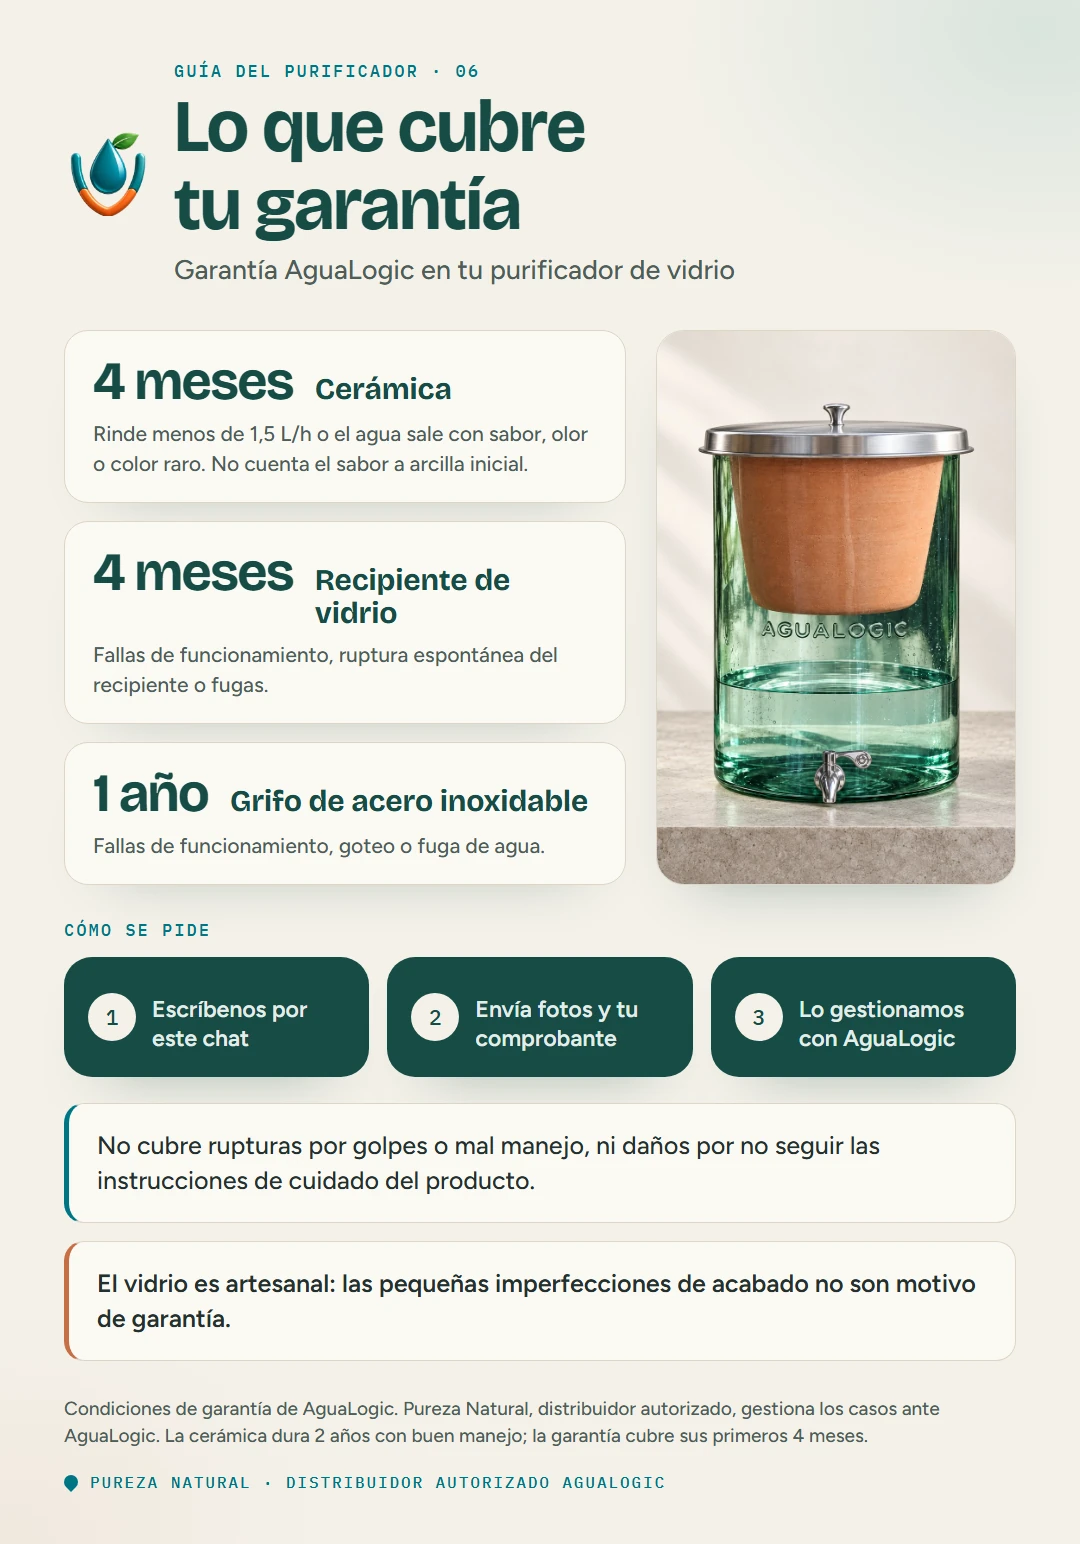
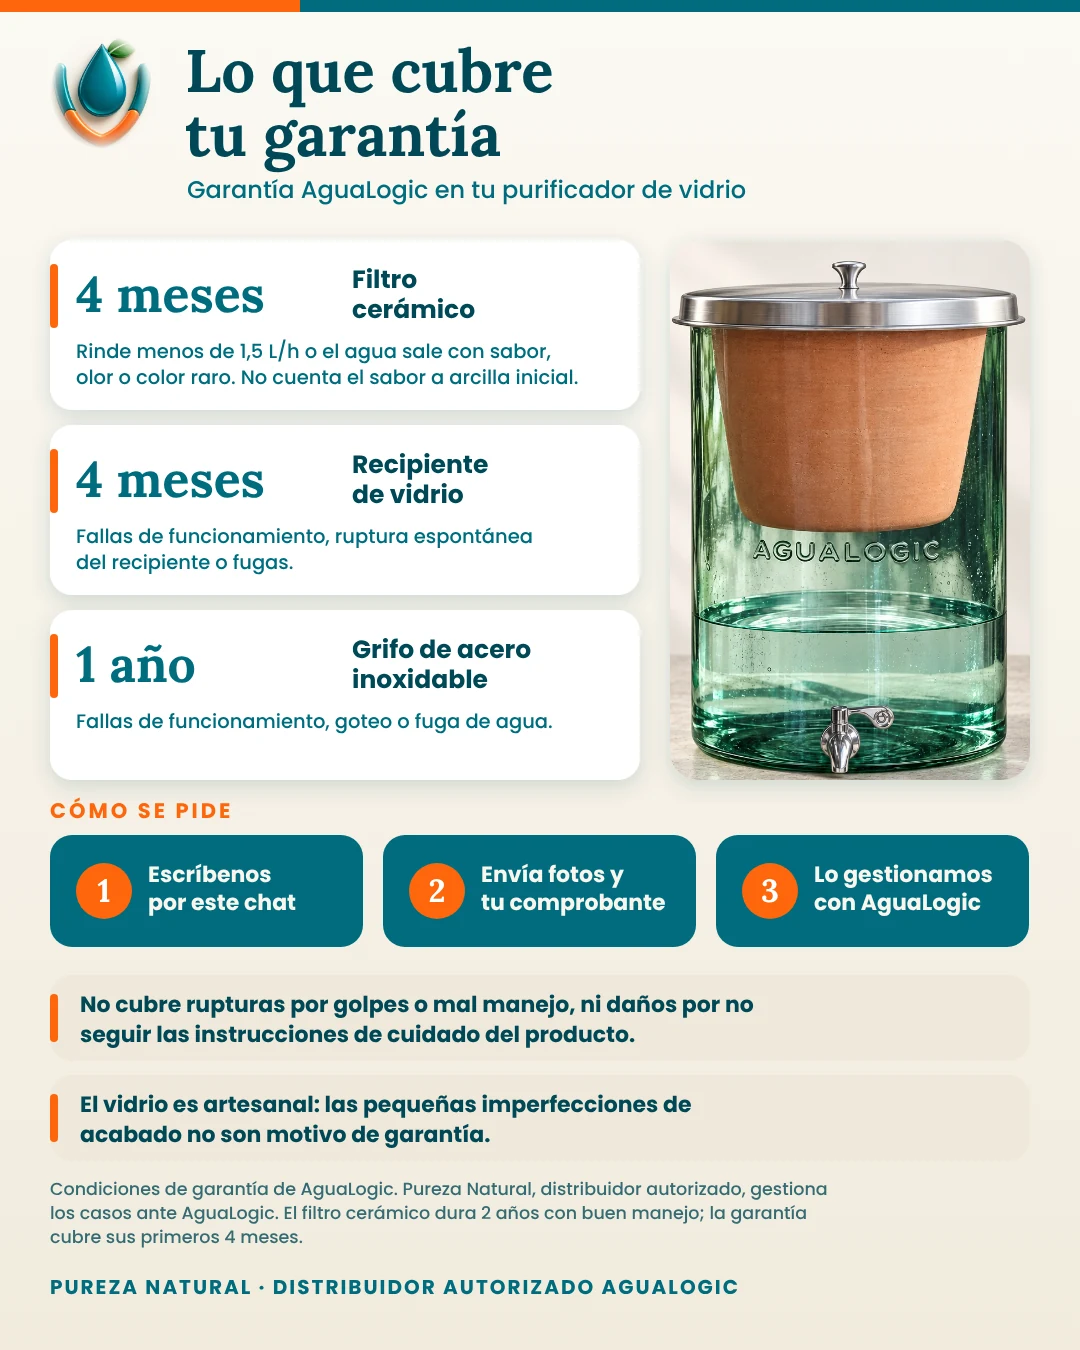
Guía: vuelve a las tarjetas anteriores
Revierte 781301d. Las tarjetas nuevas quedan solo en local.

diff --git a/pureza-natural/guia/index.html b/pureza-natural/guia/index.html
@@ -9,31 +9,30 @@
 <link rel="icon" href="img/logo.webp">
 <link rel="preconnect" href="https://fonts.googleapis.com">
 <link rel="preconnect" href="https://fonts.gstatic.com" crossorigin>
-<link href="https://fonts.googleapis.com/css2?family=Bricolage+Grotesque:opsz,wght@12..96,700&family=Figtree:wght@500;600&family=IBM+Plex+Mono:wght@500&display=swap" rel="stylesheet">
+<link href="https://fonts.googleapis.com/css2?family=Lora:wght@700&family=Poppins:wght@500;700&display=swap" rel="stylesheet">
 <style>
-:root{--canvas:#F4F1E9;--panel:#FBF9F4;--deep:#174C46;--accent:#C66F45;--water:#007585;--text:#24302E;--line:#DDD6C6;--on-deep:#E3EEEA;--display:'Bricolage Grotesque',system-ui,sans-serif;--body:'Figtree',system-ui,sans-serif;--mono:'IBM Plex Mono',ui-monospace,monospace}
+:root{--teal:#016C7E;--dark:#014856;--orange:#FD660D;--cream:#F8F5ED;--sand:#EFE8DA}
 *{box-sizing:border-box;margin:0;padding:0}
 html{scroll-behavior:smooth;scroll-padding-top:76px}
-body{background:radial-gradient(520px 380px at 96% 0,rgba(120,185,178,.22),transparent 70%),var(--canvas);background-attachment:fixed;color:var(--text);font-family:var(--body);font-weight:500;line-height:1.6;min-height:100vh;-webkit-font-smoothing:antialiased}
-.top{height:6px;background:linear-gradient(90deg,var(--accent) 0 18%,var(--deep) 18% 100%)}
-header{max-width:760px;margin:0 auto;padding:22px 16px 10px;display:flex;align-items:center;gap:16px}
-header img{width:64px;height:auto}
-h1{font-family:var(--display);font-weight:700;font-size:clamp(28px,6.4vw,40px);line-height:1.05;letter-spacing:-.02em;color:var(--deep)}
-header p{font-family:var(--mono);font-size:12px;letter-spacing:.1em;text-transform:uppercase;color:var(--water);margin-top:6px}
-nav{position:sticky;top:0;z-index:5;background:rgba(244,241,233,.9);backdrop-filter:blur(12px);-webkit-backdrop-filter:blur(12px);border-bottom:1px solid var(--line)}
+body{background:linear-gradient(180deg,#FBF9F3,#F1EBDD);color:var(--dark);font-family:'Poppins',system-ui,sans-serif;font-weight:500;line-height:1.5;min-height:100vh}
+.top{height:8px;background:linear-gradient(90deg,var(--orange) 0 28%,var(--teal) 28% 100%)}
+header{max-width:760px;margin:0 auto;padding:22px 16px 10px;display:flex;align-items:center;gap:14px}
+header img{width:64px;height:auto;-webkit-mask-image:radial-gradient(closest-side,#000 72%,transparent 100%);mask-image:radial-gradient(closest-side,#000 72%,transparent 100%)}
+h1{font-family:'Lora',Georgia,serif;font-weight:700;font-size:clamp(24px,6vw,34px);line-height:1.15;color:var(--dark)}
+header p{font-size:14px;color:var(--teal)}
+nav{position:sticky;top:0;z-index:5;background:rgba(251,249,243,.95);backdrop-filter:blur(6px);border-bottom:1px solid rgba(1,72,86,.1)}
 nav ul{max-width:760px;margin:0 auto;padding:10px 16px;display:flex;gap:8px;overflow-x:auto;list-style:none;scrollbar-width:none}
 nav ul::-webkit-scrollbar{display:none}
-nav a{white-space:nowrap;text-decoration:none;font-size:14px;font-weight:600;color:var(--deep);border:1.5px solid var(--deep);border-radius:999px;padding:7px 16px;min-height:36px;display:inline-flex;align-items:center;transition:background .3s,color .3s}
-nav a:hover,nav a:focus-visible{background:var(--deep);color:var(--canvas);outline:none}
-nav a:focus-visible{outline:3px solid var(--accent);outline-offset:3px}
+nav a{white-space:nowrap;text-decoration:none;font-size:14px;font-weight:700;color:var(--teal);border:1.5px solid var(--teal);border-radius:999px;padding:6px 14px}
+nav a:hover,nav a:focus-visible{background:var(--teal);color:var(--cream);outline:none}
 main{max-width:760px;margin:0 auto;padding:18px 16px 40px}
-figure{margin:0 0 32px;scroll-margin-top:76px}
-figure img{display:block;width:100%;height:auto;border-radius:24px;box-shadow:0 30px 60px -40px rgba(23,76,70,.35);background:var(--panel);border:1px solid var(--line)}
-.dl{display:inline-block;margin-top:12px;font-size:14px;font-weight:600;color:var(--water);text-decoration:underline;text-underline-offset:3px}
-.dl:focus-visible{outline:3px solid var(--accent);outline-offset:3px;border-radius:4px}
+figure{margin:0 0 28px;scroll-margin-top:76px}
+figure img{display:block;width:100%;height:auto;border-radius:18px;box-shadow:0 6px 22px rgba(1,72,86,.16);background:var(--sand)}
+.dl{display:inline-block;margin-top:10px;font-size:13px;font-weight:700;color:var(--teal);text-decoration:underline;text-underline-offset:3px}
 footer{max-width:760px;margin:0 auto;padding:0 16px 44px;text-align:center}
-footer small{display:block;font-family:var(--mono);font-size:12px;letter-spacing:.12em;color:var(--water);font-weight:500}
-@media (prefers-reduced-motion:reduce){html{scroll-behavior:auto}nav a{transition:none}}
+.wa{display:inline-block;background:var(--teal);color:var(--cream);text-decoration:none;font-weight:700;border-radius:14px;padding:14px 24px;font-size:16px}
+.wa:hover{background:var(--dark)}
+footer small{display:block;font-size:12px;letter-spacing:.12em;color:var(--teal);font-weight:700}
 </style>
 </head>
 <body>
@@ -58,31 +57,31 @@ footer small{display:block;font-family:var(--mono);font-size:12px;letter-spacing
 </nav>
 <main>
   <figure id="funcionamiento">
-    <img src="img/funcionamiento.webp" width="1080" height="1473" alt="Así funciona por gravedad: echas el agua arriba, la gravedad la pasa por la cerámica y sale por la llave. 8 litros, 1,7 L/h en promedio, sin electricidad.">
+    <img src="img/funcionamiento.webp" width="1080" height="1340" alt="Así funciona por gravedad: echas el agua arriba, la gravedad la pasa por la cerámica y sale por la llave. 8 litros, 1,7 L/h en promedio, sin electricidad.">
     <a class="dl" href="img/funcionamiento.webp" download>Descargar imagen</a>
   </figure>
   <figure id="curacion">
-    <img src="img/curacion.webp" width="1080" height="1805" alt="Cómo se cura tu purificador nuevo: llénalo hasta el tope, repite 4 veces, usa esa agua para regar tus matas y desde la 5.ª carga ya se toma." loading="lazy">
+    <img src="img/curacion.webp" width="1080" height="1430" alt="Cómo se cura tu purificador nuevo: llénalo hasta el tope, repite 4 veces y desde la 5.ª carga ya se toma." loading="lazy">
     <a class="dl" href="img/curacion.webp" download>Descargar imagen</a>
   </figure>
   <figure id="mantenimiento">
-    <img src="img/mantenimiento.webp" width="1080" height="1733" alt="Cómo cuidar tu purificador: qué hacer, qué evitar y cuándo cambiar la cerámica. Vida útil de 2 años." loading="lazy">
+    <img src="img/mantenimiento.webp" width="1080" height="1330" alt="Cómo cuidar tu purificador: qué hacer, qué evitar y cuándo cambiar la cerámica. Vida útil de 2 años." loading="lazy">
     <a class="dl" href="img/mantenimiento.webp" download>Descargar imagen</a>
   </figure>
   <figure id="tamanos">
-    <img src="img/tamanos.webp" width="1080" height="1965" alt="Tamaños con medidas: mini peltre 22 por 18 cm, peltre 42 por 32,5 cm, acero inox 46 por 31 cm y vidrio aproximadamente 45 por 34,5 cm." loading="lazy">
+    <img src="img/tamanos.webp" width="1080" height="1790" alt="Tamaños con medidas: mini peltre 22 por 18 cm, peltre 42 por 32,5 cm, acero inox 46 por 31 cm y vidrio aproximadamente 45 por 34,5 cm." loading="lazy">
     <a class="dl" href="img/tamanos.webp" download>Descargar imagen</a>
   </figure>
   <figure id="laboratorio">
-    <img src="img/laboratorio.webp" width="1080" height="1712" alt="Resultados de laboratorio de la Universidad Nacional de Colombia sobre la cerámica AguaLogic, con agua preparada en laboratorio." loading="lazy">
+    <img src="img/laboratorio.webp" width="1080" height="1390" alt="Resultados de laboratorio de la Universidad Nacional de Colombia sobre la cerámica AguaLogic, con agua preparada en laboratorio." loading="lazy">
     <a class="dl" href="img/laboratorio.webp" download>Descargar imagen</a>
   </figure>
   <figure id="garantia">
-    <img src="img/garantia.webp" width="1080" height="1544" alt="Garantía AguaLogic: 4 meses en la cerámica, 4 meses en el recipiente de vidrio y 1 año en el grifo de acero inoxidable." loading="lazy">
+    <img src="img/garantia.webp" width="1080" height="1350" alt="Garantía AguaLogic: 4 meses en la cerámica, 4 meses en el recipiente de vidrio y 1 año en el grifo de acero inoxidable." loading="lazy">
     <a class="dl" href="img/garantia.webp" download>Descargar imagen</a>
   </figure>
   <figure id="envio">
-    <img src="img/envio.webp" width="1080" height="1472" alt="Envío gratis en Villavicencio, $13.000 en otros municipios. Pago contraentrega o por Nequi." loading="lazy">
+    <img src="img/envio.webp" width="1080" height="1250" alt="Envío gratis en Villavicencio, $13.000 en otros municipios. Pago contraentrega o por Nequi." loading="lazy">
     <a class="dl" href="img/envio.webp" download>Descargar imagen</a>
   </figure>
 </main>
